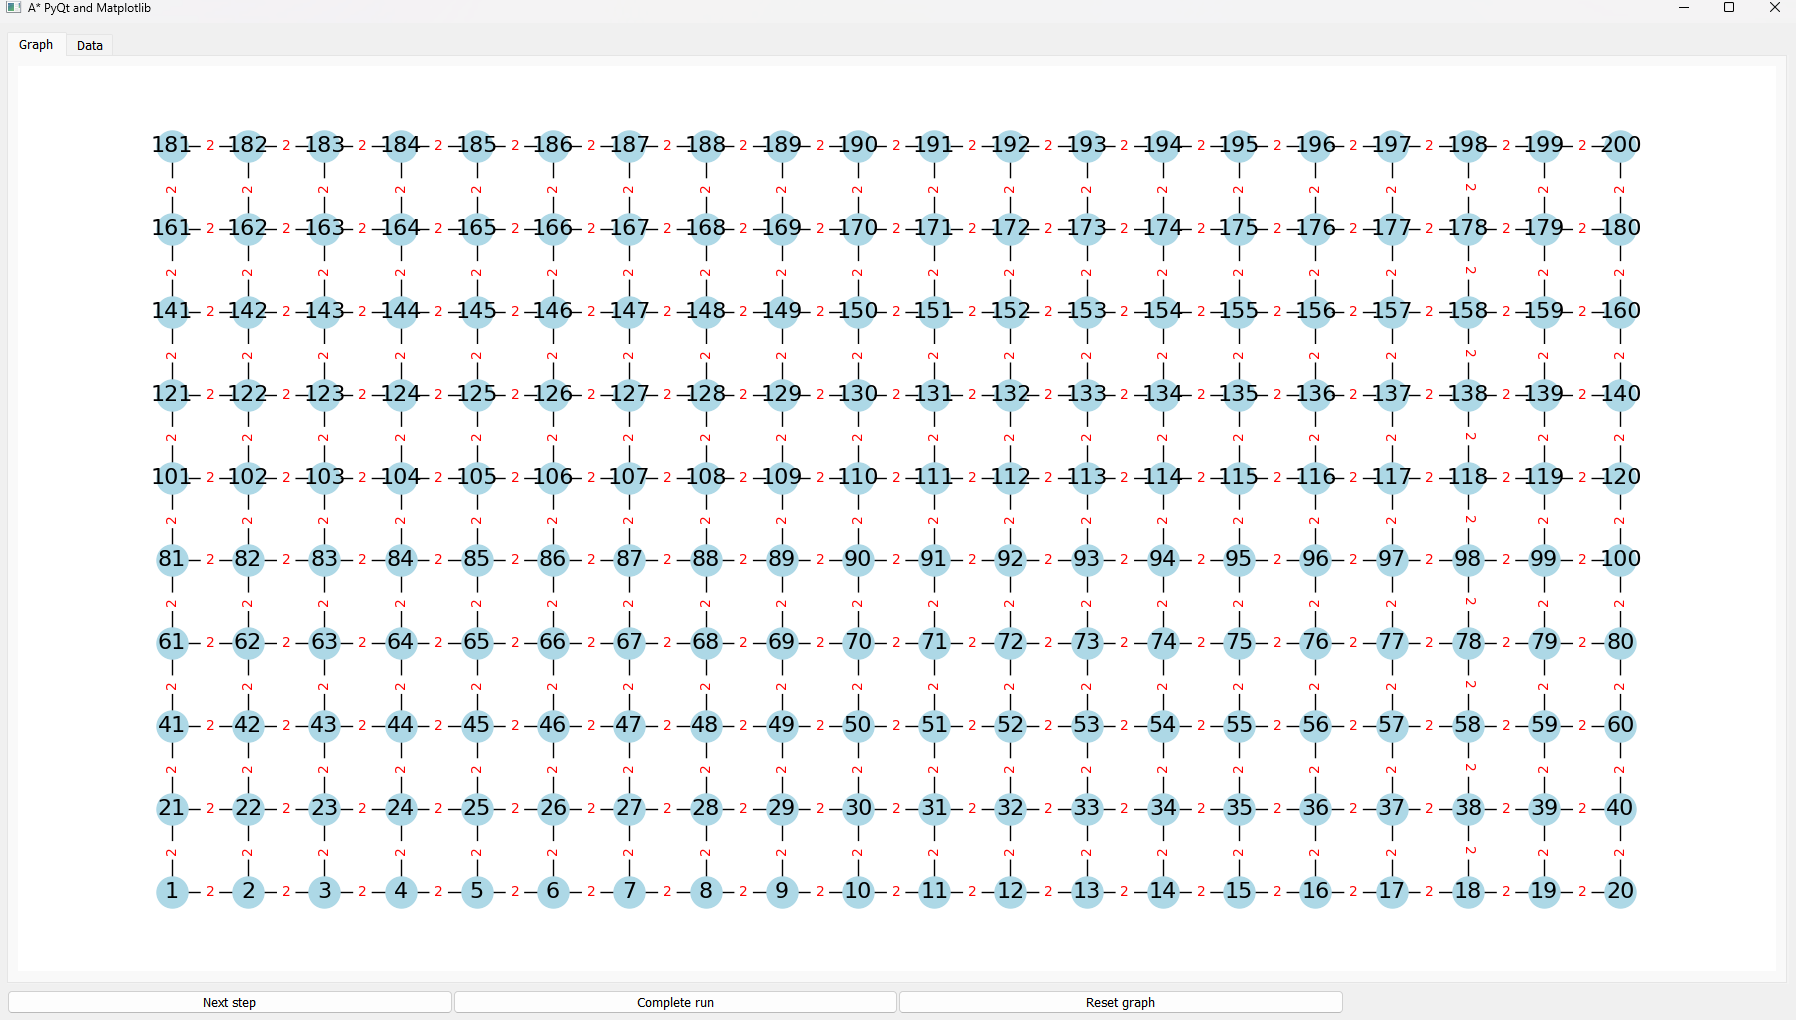
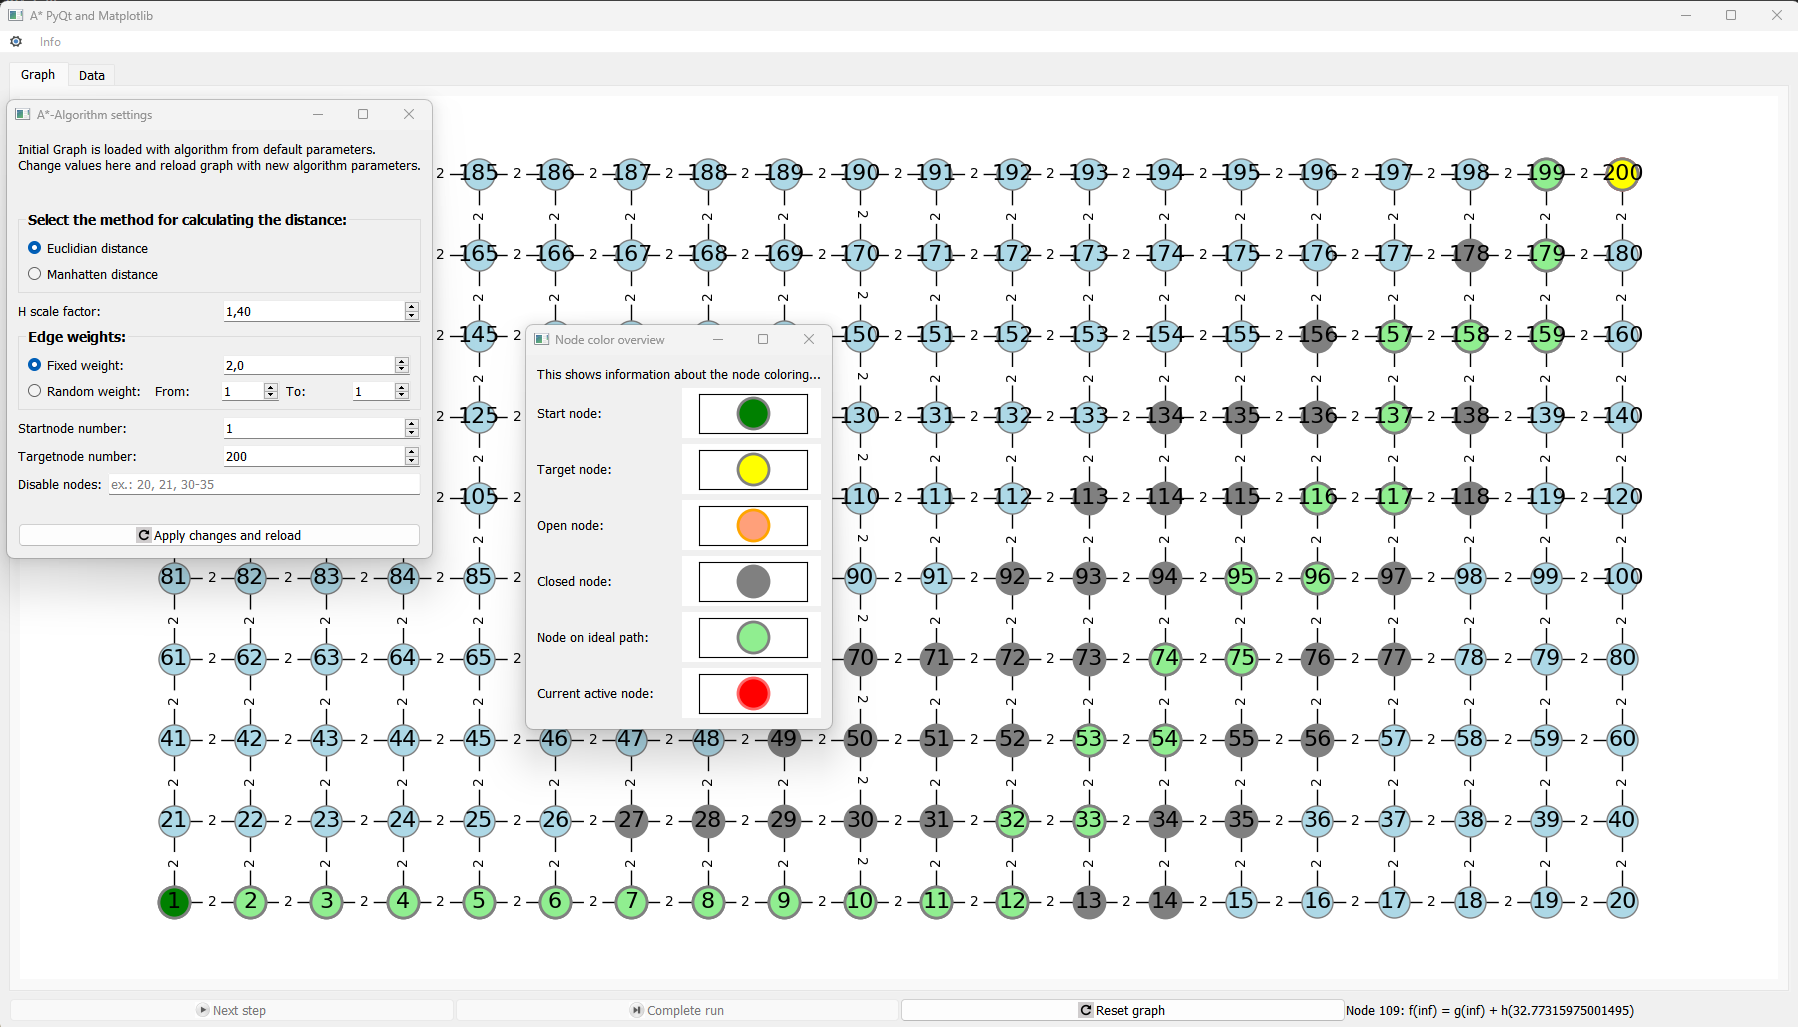
added node color overview

diff --git a/scripts/utils/a_start_algorithm.py b/scripts/utils/a_start_algorithm.py
@@ -105,22 +105,53 @@ class A_star():
         for node in self.graph.nodes:
             pos_dict.update({node: (node.pos.x, node.pos.y)})
         # Zeichne den Graphen
-        nx.draw(self.graph, pos_dict, ax=plt_axes, with_labels=True, node_color=const.NODE_COLOR_DEFAULT, node_size=const.NODE_SIZE, font_size=16, )
+        nx.draw(self.graph, pos_dict, ax=plt_axes, with_labels=True, node_color=const.NODE_COLOR_DEFAULT, node_size=const.NODE_SIZE, font_size=16, 
+                edgecolors=const.NODE_EDGE_COLOR_DEFAULT)
         
-        # Use different node colors for node states (Nodes in open list, currently open node)
+        # Node coloring
+        # Open nodes
         if show_open and self.open_list:
-            nx.draw_networkx_nodes(self.graph, pos_dict, self.open_list, ax=plt_axes, node_size=const.NODE_SIZE, edgecolors=const.NODE_EDGE_COLOR_OPEN)
+            nx.draw_networkx_nodes(self.graph, pos_dict, self.open_list, ax=plt_axes, node_size=const.NODE_SIZE, 
+                                   edgecolors=const.NODE_EDGE_COLOR_OPEN, 
+                                   linewidths=const.NODE_EDGE_WIDTH, 
+                                   node_color=const.NODE_EDGE_COLOR_OPEN)
+        # Closed nodes
         if show_closed and self.closed_list:
-            nx.draw_networkx_nodes(self.graph, pos_dict, self.closed_list, ax=plt_axes, node_size=const.NODE_SIZE, node_color=const.NODE_COLOR_CLOSED)
+            nx.draw_networkx_nodes(self.graph, pos_dict, self.closed_list, ax=plt_axes, node_size=const.NODE_SIZE, 
+                                   node_color=const.NODE_COLOR_CLOSED,
+                                   linewidths=const.NODE_EDGE_WIDTH,
+                                   edgecolors=const.NODE_EDGE_COLOR_CLOSED)
+        # Ideal path
         if show_current_node and self.current_node and show_ideal_path:
             ideal_nodes_list = []
             ideal_node = self.current_node
             while ideal_node.parent:
                 ideal_nodes_list.append(ideal_node)
                 ideal_node = ideal_node.parent
-            nx.draw_networkx_nodes(self.graph, pos_dict, ideal_nodes_list, ax=plt_axes, node_size=const.NODE_SIZE, node_color=const.NODE_COLOR_IDEAL_PATH)
+            nx.draw_networkx_nodes(self.graph, pos_dict, ideal_nodes_list, ax=plt_axes, node_size=const.NODE_SIZE, 
+                                   node_color=const.NODE_COLOR_IDEAL_PATH,
+                                   edgecolors=const.NODE_EDGE_COLOR_IDEAL,
+                                   linewidths=const.NODE_EDGE_WIDTH)
+        
+        # Current node
         if show_current_node and self.current_node:
-            nx.draw_networkx_nodes(self.graph, pos_dict, [self.current_node], ax=plt_axes, node_size=const.NODE_SIZE, node_color=const.NODE_COLOR_CURRENT)
+            nx.draw_networkx_nodes(self.graph, pos_dict, [self.current_node], ax=plt_axes, node_size=const.NODE_SIZE, 
+                                   node_color=const.NODE_COLOR_CURRENT,
+                                   linewidths=const.NODE_EDGE_WIDTH,
+                                   edgecolors=const.NODE_EDGE_COLOR_CURRENT)
+
+        # Start node
+        nx.draw_networkx_nodes(self.graph, pos_dict, [self.graph.start_node._id], ax=plt_axes, node_size=const.NODE_SIZE, 
+                               node_color=const.NODE_COLOR_START,
+                               linewidths=const.NODE_EDGE_WIDTH,
+                               edgecolors=const.NODE_EDGE_COLOR_START)
+
+        # Target node
+        nx.draw_networkx_nodes(self.graph, pos_dict, [self.graph._target_node_id], ax=plt_axes, node_size=const.NODE_SIZE, 
+                               node_color=const.NODE_COLOR_TARGET,
+                               linewidths=const.NODE_EDGE_WIDTH,
+                               edgecolors=const.NODE_EDGE_COLOR_TARGET)
+
         edge_labels = nx.get_edge_attributes(self.graph, "weight")
         nx.draw_networkx_edge_labels(self.graph, pos_dict, ax=plt_axes, edge_labels=edge_labels, font_color=const.EDGE_COLOR)
         plt.show()

diff --git a/scripts/utils/custom_widgets.py b/scripts/utils/custom_widgets.py
@@ -1,3 +1,6 @@
+from typing import Optional
+
+import networkx as nx
 from PyQt5.QtWidgets import QWidget, QVBoxLayout, QLabel, QPushButton, QGroupBox, QRadioButton, QDoubleSpinBox, QHBoxLayout, QLineEdit
 from PyQt5.QtGui import QIcon
 from PyQt5.QtCore import pyqtSignal, QObject
@@ -5,10 +8,11 @@ from matplotlib.backends.backend_qt5agg import FigureCanvasQTAgg as FigureCanvas
 from matplotlib.figure import Figure
 from matplotlib.axes import Axes
 
-from typing import Optional
+
 
 from utils.a_start_algorithm import A_star, A_star_parameter
 from utils.geometry import EuclidianDistance, ManhattenDistance
+from utils import constants as const
 
 ################
 # Custom Signals
@@ -285,5 +289,27 @@ class InfoPageWidget(QWidget):
         self.setWindowTitle('Node color overview')
         main_layout = QVBoxLayout()
         main_layout.addWidget(QLabel('This shows information about the node coloring...'))
+        self.draw_node_description("Start node", main_layout, const.NODE_EDGE_COLOR_START, const.NODE_COLOR_START)
+        self.draw_node_description("Target node", main_layout, const.NODE_EDGE_COLOR_TARGET, const.NODE_COLOR_TARGET)
+        self.draw_node_description("Open node", main_layout, const.NODE_EDGE_COLOR_OPEN, const.NODE_COLOR_OPEN)
+        self.draw_node_description("Closed node", main_layout, const.NODE_EDGE_COLOR_CLOSED, const.NODE_COLOR_CLOSED)
+        self.draw_node_description("Node on ideal path", main_layout, const.NODE_EDGE_COLOR_IDEAL, const.NODE_COLOR_IDEAL_PATH)
+        self.draw_node_description("Current active node", main_layout, const.NODE_EDGE_COLOR_CURRENT, const.NODE_COLOR_CURRENT)
+
         self.setLayout(main_layout)
 
+
+    def draw_node_description(self, text: str, main_layout: QVBoxLayout, edge_color: str, node_color: str):
+        h_layout  = QHBoxLayout()
+        h_layout.addWidget(QLabel(text + ": "))
+        
+        figure = Figure(figsize=(0.5, 0.5))
+        canvas = FigureCanvas(figure)
+        h_layout.addWidget(canvas)
+        main_layout.addLayout(h_layout)
+        G = nx.Graph()
+        G.add_node(1)
+        ax = figure.add_subplot(111)
+        ax.clear()
+        nx.draw_networkx_nodes(G, {1: (0,0)}, [1], ax=ax, node_color=node_color, node_size=500, edgecolors = edge_color, linewidths=const.NODE_EDGE_WIDTH)
+        canvas.draw()

diff --git a/scripts/utils/constants.py b/scripts/utils/constants.py
@@ -1,19 +1,34 @@
-import random
-
 ##############
 #  Graph Style
 ##############
-
-# Graph colors
 NODE_COLOR_DEFAULT = "lightblue"
-NODE_EDGE_COLOR_OPEN = "grey"
-NODE_COLOR_CLOSED = "grey"
-NODE_COLOR_CURRENT = "green"
-NODE_COLOR_IDEAL_PATH = "yellow"
-EDGE_COLOR = "red"
+NODE_EDGE_COLOR_DEFAULT = "grey"
+# Open node
+NODE_EDGE_COLOR_OPEN = "orange"
+NODE_COLOR_OPEN = "#FFA07A"
 
-# Node Layout
+# Closed node
+NODE_COLOR_CLOSED = "grey"
+NODE_EDGE_COLOR_CLOSED = "grey"
+# Current node
+NODE_COLOR_CURRENT = "red"
+NODE_EDGE_COLOR_CURRENT = "#FF6666"
+
+# Ideal path node
+NODE_COLOR_IDEAL_PATH = "lightgreen"
+NODE_EDGE_COLOR_IDEAL = "grey"
+# start node
+NODE_COLOR_START = "green"
+NODE_EDGE_COLOR_START = "grey"
+# target node
+NODE_COLOR_TARGET = "yellow"
+NODE_EDGE_COLOR_TARGET = "grey"
+
+
+# unified values
 NODE_SIZE = 500
+EDGE_COLOR = "black"
+NODE_EDGE_WIDTH = 2.0
 
 #####################
 # Algorithm Parameter
